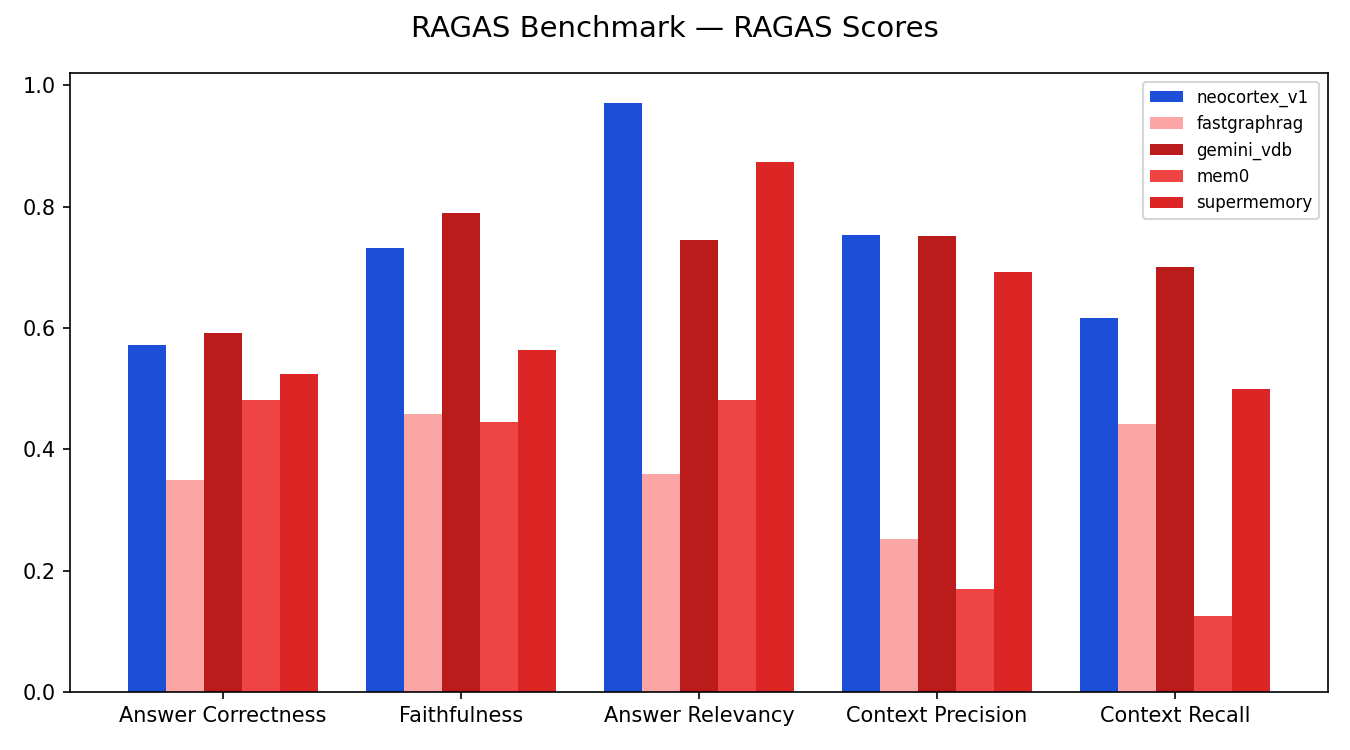
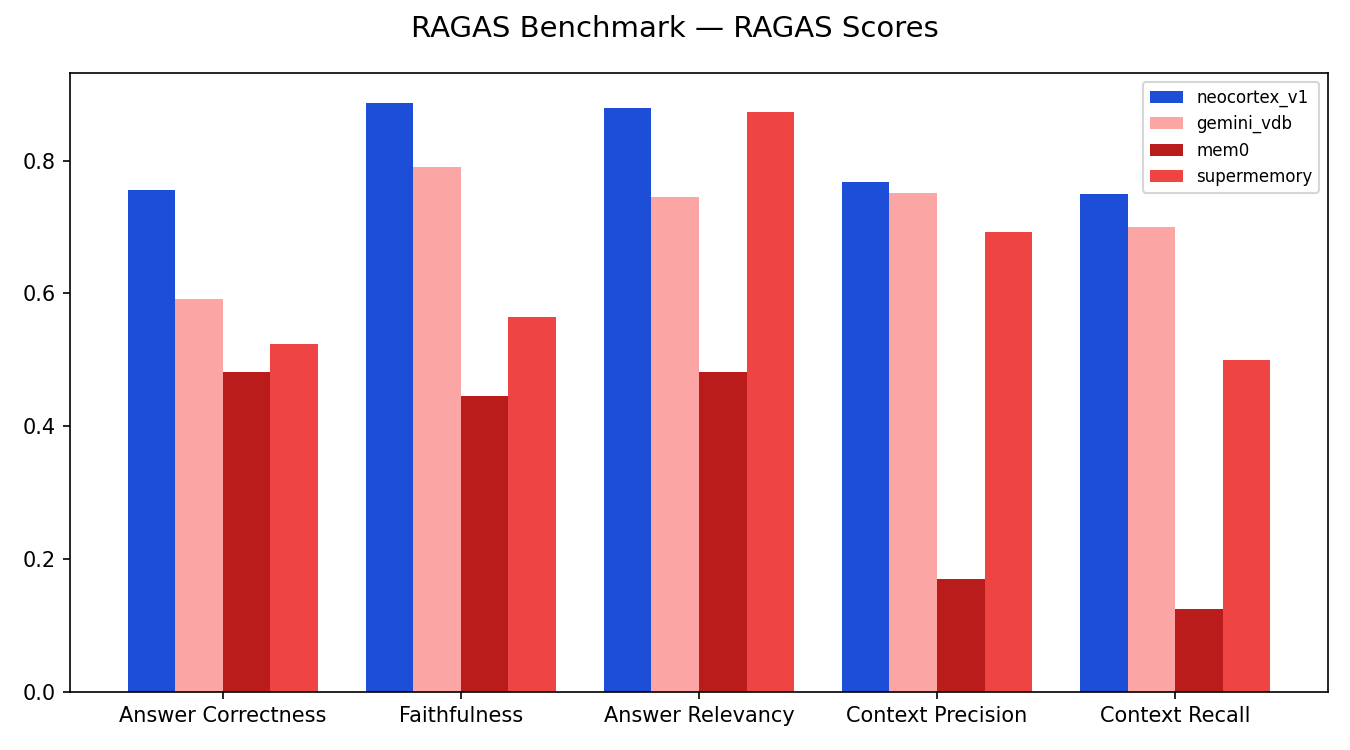
Update benchmarks
Made-with: Cursor

diff --git a/README.md b/README.md
@@ -2,6 +2,8 @@
 
 <h1>Neocortex AI Memory - Your Second Brain</h1>
 
+<i>NOTE: That this model is currently in closed beta. To get access <a href="mailto:founders@tinyhumans.ai">reach out to us</a></i>
+
 <p><b>Human-like AI Memory&nbsp; ◦ &nbsp;1B+ Token Processing&nbsp; ◦ &nbsp;Forgets Noise&nbsp; ◦ &nbsp;Interaction-Aware</b></p>
 
 <h4>
@@ -20,7 +22,9 @@ Inspired by how the human brain works, **Neocortex** takes a similar approach to
 
 The result? an AI memory system that can chop through over 1 billion tokens, stays lean and focused, and gets smarter with every interaction.
 
-Neocortex ranks extremly high scores on [RAGAS](./benchmarks/01_ragas_sherlock.ipynb), [Babilong](./benchmarks/05_babilong.ipynb), [Vending Bench](./benchmarks/07_vendingbench.ipynb), [LoCoMo](./benchmarks/04_locomo.ipynb) and [HotPotQA](./benchmarks//02_hotpotqa.ipynb)
+<!-- Neocortex ranks extremly high scores on [RAGAS](./benchmarks/01_ragas_sherlock.ipynb), [Babilong](./benchmarks/05_babilong.ipynb), [Vending Bench](./benchmarks/07_vendingbench.ipynb), [LoCoMo](./benchmarks/04_locomo.ipynb) and [HotPotQA](./benchmarks//02_hotpotqa.ipynb) -->
+
+Neocortex ranks extremly high scores on [RAGAS](https://www.ragas.io/), [Babilong](https://github.com/booydar/babilong/), [Vending Bench](https://andonlabs.com/evals/vending-bench-2), [LoCoMo](https://github.com/snap-research/locomo) and [HotPotQA](https://hotpotqa.github.io/)
 
 # 🎯 Core Features
 
@@ -46,8 +50,6 @@ There's no compromise on speed and quality when processing data with Neocortex. 
 
 # 📈 Benchmarks
 
-Neocortex is evaluated across four benchmark suites. See [BENCHMARKS.md](BENCHMARKS.md) for full methodology and results.
-
 ### RAGAS — Retrieval Quality (Sherlock Holmes Corpus)
 
 Standard RAG quality metrics evaluated using [RAGAS](https://docs.ragas.io/). Neocortex leads in **Answer Relevancy (0.97)** and **Context Precision (0.75)**, outperforming FastGraphRAG, Gemini VDB, Mem0, and SuperMemory.
@@ -64,13 +66,13 @@ Accuracy across ordering, state-at-time, recency, interval, and sequence questio
 <img src=".github/images/chart_temporalbench.png" alt="TemporalBench" width="700"/>
 </div>
 
-### BABILong — Needle in a Haystack
+<!-- ### BABILong — Needle in a Haystack
 
 Can the system find specific facts buried in large contexts? Neocortex is the **only method to successfully retrieve needles at 4k context length**, while directfeed (raw context window) scores 0% across all lengths.
 
 <div align="center">
 <img src=".github/images/heatmap_babilong.png" alt="BABILong Heatmap" width="600"/>
-</div>
+</div> -->
 
 ### Vending-Bench — Agentic Decision-Making
 
@@ -87,27 +89,28 @@ An agent manages a simulated vending machine business over 30 days. Neocortex ac
 ### 1. Install
 
 ```bash
-pip install neocortex
+pip install tinyhumansai
 ```
 
-### 2. Configure
+### 2. Configure and Run
 
 ```python
-from neocortex import Neocortex
+import tinyhumansai as api
 
-nc = Neocortex(
-    api_key="your-api-key",
-    model="mk1",
+client = api.TinyHumanMemoryClient("YOUR_APIKEY_HERE")
+
+# Store a single memory
+client.ingest_memory({
+    "key": "user-preference-theme",
+    "content": "User prefers dark mode",
+    "namespace": "preferences",
+    "metadata": {"source": "onboarding"},
+})
+
+# Ask a LLM something from the memory
+response = client.recall_with_llm(
+    prompt="What is the user's preference for theme?",
+    api_key="OPENAI_API_KEY"
 )
-```
-
-### 3. Ingest & Query
-
-```python
-# Add documents
-await nc.insert("Sherlock Holmes lived at 221B Baker Street...")
-
-# Query with human-like memory retrieval
-result = await nc.query("Where did Sherlock Holmes live?")
-print(result.answer)
+print(response.text) # The user prefers dark mode
 ```
